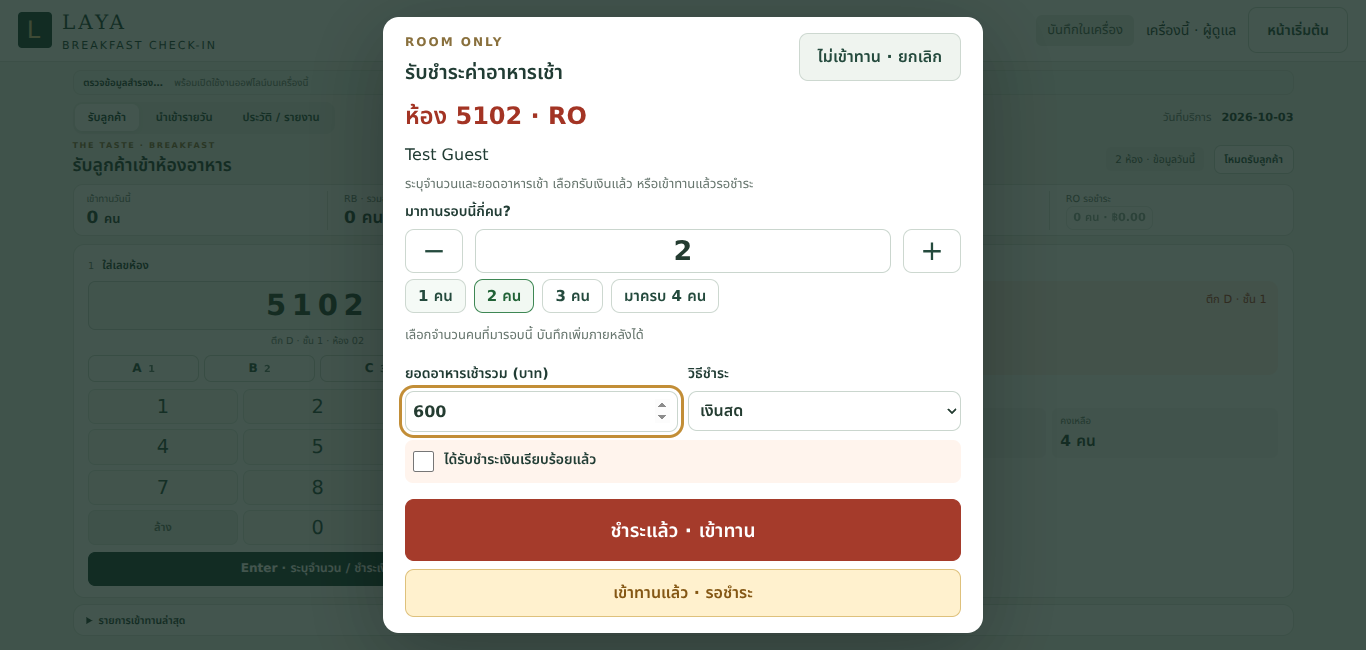
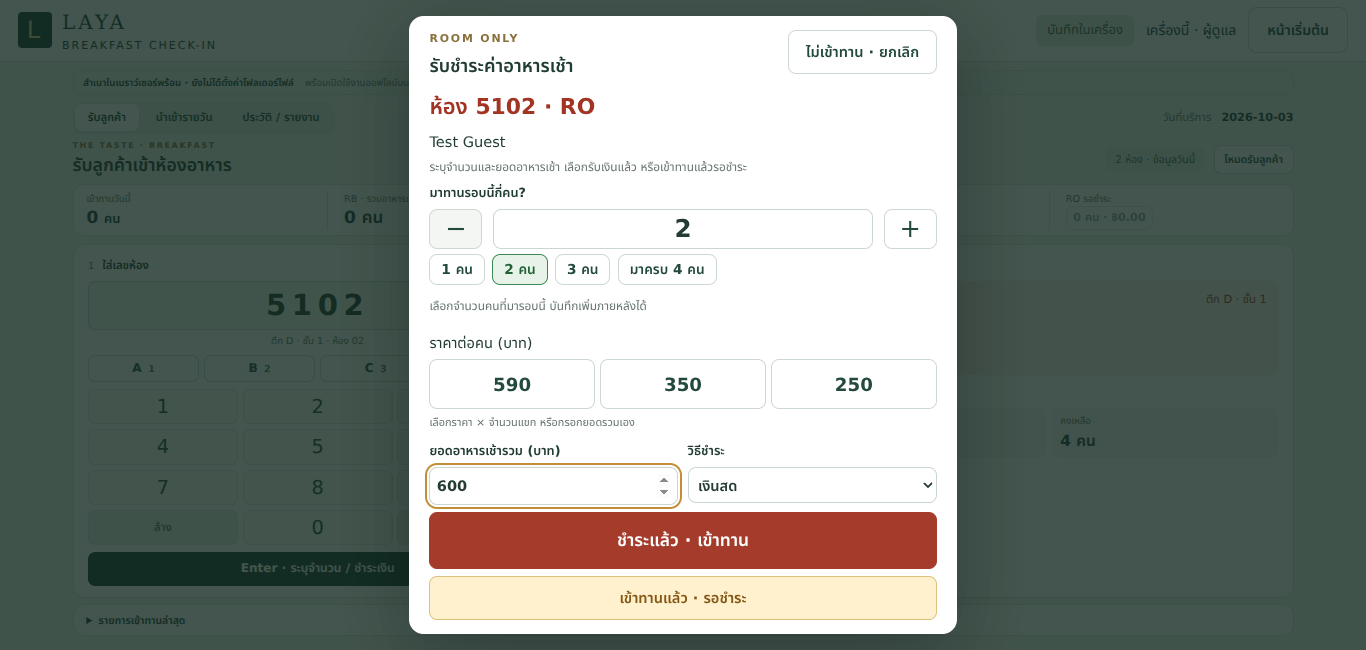
Add files via upload

diff --git a/app.js b/app.js
@@ -33,11 +33,12 @@ function findRoom(){
   const count=currentState.counts[room]?.count||0,remaining=Math.max(0,r.pax-count);
   $('#guest').innerHTML='<div class="guest-state '+(r.pkg==='RO'?'payment':'included')+'"><div class="guest-state-top"><span class="state-label">'+(r.pkg==='RO'?'RO · ต้องชำระเงิน':'RB · รวมอาหารเช้า')+'</span><span>ตึก '+buildings[room[0]]+' · ชั้น '+room[1]+'</span></div><div class="guest-room">'+room+'</div><p>'+(r.pkg==='RO'?'เลือกชำระแล้ว หรือเข้าทานแล้วรอชำระ':'ทานอาหารเช้าได้โดยไม่ต้องชำระเพิ่ม')+'</p></div><div class="names">'+r.names.map(esc).join('<br>')+'</div><div class="occupancy"><div><small>ผู้พักทั้งหมด</small><strong>'+r.pax+' คน</strong></div><div><small>เข้าทานแล้ว</small><strong><span id="live-count">'+count+'</span> คน</strong></div><div><small>คงเหลือ</small><strong><span id="live-remaining">'+remaining+'</span> คน</strong></div></div>'+
   (remaining===0?'<div class="notice">บันทึกครบจำนวนผู้พักแล้ว กรุณาตรวจสอบกับ FO</div>':'<form id="entry-form"><label for="pax">มาทานรอบนี้กี่คน?</label><div class="pax-stepper"><button type="button" id="pax-minus" aria-label="ลดจำนวนคน">−</button><input id="pax" type="number" min="1" max="'+remaining+'" step="1" required value="1" aria-describedby="pax-hint"><button type="button" id="pax-plus" aria-label="เพิ่มจำนวนคน">+</button></div><div class="pax-quick">'+Array.from({length:Math.min(3,remaining)},(_,i)=>'<button type="button" data-pax="'+(i+1)+'" aria-pressed="'+(i===0)+'">'+(i+1)+' คน</button>').join('')+(remaining>3?'<button type="button" data-pax="'+remaining+'" aria-pressed="false">มาครบ '+remaining+' คน</button>':'')+'</div><small id="pax-hint" class="hint">เลือกจำนวนคนที่มารอบนี้ บันทึกเพิ่มภายหลังได้</small>'+
-  (r.pkg==='RO'?'<div class="payment-fields" hidden><div class="form-grid"><label>ยอดอาหารเช้ารวม (บาท)<input id="amount" type="number" inputmode="decimal" min="0.01" max="1000000" step="0.01" placeholder="0.00"></label><label>วิธีชำระ<select id="method"><option value="cash">เงินสด</option><option value="card">บัตรเครดิต</option><option value="transfer">โอนเงิน</option></select></label></div></div>':'')+
+  (r.pkg==='RO'?'<div class="payment-fields" hidden><div class="price-presets" role="group" aria-label="ราคาอาหารเช้าต่อคน"><span>ราคาต่อคน (บาท)</span>'+[590,350,250].map(price=>'<button type="button" data-price="'+price+'" aria-pressed="false">'+price+'</button>').join('')+'<small>เลือกราคา × จำนวนแขก หรือกรอกยอดรวมเอง</small></div><div class="form-grid"><label>ยอดอาหารเช้ารวม (บาท)<input id="amount" type="number" inputmode="decimal" min="0.01" max="1000000" step="0.01" placeholder="0.00"></label><label>วิธีชำระ<select id="method"><option value="cash">เงินสด</option><option value="card">บัตรเครดิต</option><option value="transfer">โอนเงิน</option></select></label></div></div>':'')+
   '<button id="save-entry" type="'+(r.pkg==='RO'?'button':'submit')+'" class="primary full '+(r.pkg==='RO'?'save-paid':'save-rb')+'">'+(r.pkg==='RO'?'ระบุการชำระเงิน':'ยืนยันเข้าทาน')+'</button>'+(r.pkg==='RO'?'<button id="save-pending" type="button" hidden class="pending-button full">เข้าทานแล้ว · รอชำระ</button>':'')+'</form>');
   $('#entry-form')?.addEventListener('submit',saveEntry);$('#save-pending')?.addEventListener('click',e=>saveEntry(e,'pending'));if(r.pkg==='RO')$('#save-entry')?.addEventListener('click',()=>{if(!$('#payment-dialog').open)openPayment();});
   if($('#pax')){
-   const sync=()=>{const n=Number($('#pax').value);document.querySelectorAll('[data-pax]').forEach(b=>b.setAttribute('aria-pressed',String(Number(b.dataset.pax)===n)));$('#pax-minus').disabled=busy||n<=1;$('#pax-plus').disabled=busy||n>=remaining;};
+   let chosenPrice=null;const syncPrice=()=>{document.querySelectorAll('[data-price]').forEach(b=>b.setAttribute('aria-pressed',String(Number(b.dataset.price)===chosenPrice)));if(chosenPrice!==null){const n=Number($('#pax').value);$('#amount').value=Number.isInteger(n)&&n>0?String(chosenPrice*n):'';}};document.querySelectorAll('[data-price]').forEach(b=>b.addEventListener('click',()=>{chosenPrice=Number(b.dataset.price);syncPrice();}));$('#amount')?.addEventListener('input',()=>{chosenPrice=null;syncPrice();});
+   const sync=()=>{syncPrice();const n=Number($('#pax').value);document.querySelectorAll('[data-pax]').forEach(b=>b.setAttribute('aria-pressed',String(Number(b.dataset.pax)===n)));$('#pax-minus').disabled=busy||n<=1;$('#pax-plus').disabled=busy||n>=remaining;};
    $('#pax-minus').addEventListener('click',()=>{$('#pax').value=Math.max(1,(Number($('#pax').value)||1)-1);sync();});
    $('#pax-plus').addEventListener('click',()=>{$('#pax').value=Math.min(remaining,(Number($('#pax').value)||1)+1);sync();});
    document.querySelectorAll('[data-pax]').forEach(b=>b.addEventListener('click',()=>{$('#pax').value=b.dataset.pax;sync();}));$('#pax').addEventListener('input',sync);$('#pax').addEventListener('keydown',e=>{if(e.key==='Enter'&&e.repeat)e.preventDefault();});sync();

diff --git a/style.css b/style.css
@@ -88,3 +88,5 @@
 .pending-button,.pending-list{background:#fff1ce;color:#845714;border:1px solid #dec17c}.pending-list{padding:16px;border-radius:12px;margin:12px 0}.pending-entry{display:flex;align-items:center;justify-content:space-between;gap:12px;padding:10px 0;border-top:1px solid #dec17c}.pending-entry small{display:block;font-size:12px}.pending-text{color:#945e09}#settlement-dialog{width:min(480px,calc(100% - 32px));border:0;border-radius:14px;padding:22px;color:#213c34}#settlement-dialog::backdrop{background:#10271ec9}#pending-shortcut{font-size:14px;min-height:28px;padding:2px 8px}.pending-button{min-height:40px!important;margin-top:8px!important}@media screen and (min-width:761px){.reception-page .reception-summary{grid-template-columns:repeat(5,minmax(0,1fr))}}
 
 .pending-entry>div{min-width:0;overflow-wrap:anywhere}.pending-entry button{flex-shrink:0}
+
+.price-presets{display:grid;grid-template-columns:repeat(3,minmax(0,1fr));gap:6px;margin-bottom:10px}.price-presets>span,.price-presets>small{grid-column:1/-1}.price-presets>small{font-size:12px;color:var(--muted)}.price-presets button{min-height:42px;font-size:20px;font-weight:600;touch-action:manipulation}.price-presets button[aria-pressed=true]{background:#163f36;color:white;border-color:#163f36}

diff --git a/sw.js b/sw.js
@@ -1,5 +1,5 @@
 const PREFIX='laya-breakfast-local-'+encodeURIComponent(self.registration.scope)+'-';
-const CACHE=PREFIX+'v2.9.1';
+const CACHE=PREFIX+'v2.9.2';
 const ASSETS=["./", "./index.html", "./app.js", "./auto-backup.js", "./style.css", "./domain.js", "./local-store.js", "./phase-reports.js", "./store.js", "./pdf-import.js", "./pdf-workflow.js", "./icon.svg", "./manifest.webmanifest", "./sample-guests.csv", "./fonts/noto-sans-thai-thai-400-normal.woff2", "./fonts/noto-sans-thai-thai-600-normal.woff2", "./vendor/xlsx.full.min.js", "./vendor/pdfjs/pdf.min.mjs", "./vendor/pdfjs/pdf.worker.min.mjs"];
 self.addEventListener('install',e=>e.waitUntil((async()=>{const cache=await caches.open(CACHE);await cache.addAll(ASSETS.map(url=>new Request(url,{cache:'reload'})));await self.skipWaiting();})()));
 self.addEventListener('activate',e=>e.waitUntil((async()=>{for(const key of await caches.keys())if(key.startsWith(PREFIX)&&key!==CACHE)await caches.delete(key);await self.clients.claim();})()));

diff --git a/README-TH.md b/README-TH.md
@@ -1,4 +1,4 @@
-# LAYA Breakfast Local v2.9.1 — โน้ตบุ๊กเครื่องเดียว
+# LAYA Breakfast Local v2.9.2 — โน้ตบุ๊กเครื่องเดียว
 
 ไม่ใช้ Firebase ไม่ต้องมีบัญชีหรือชำระค่าฐานข้อมูล ข้อมูลเก็บใน IndexedDB ของเบราว์เซอร์บนเครื่องนี้
 รองรับการนำเข้า PDF / Excel / CSV ตรวจ RO/RB ห้องนอกตึกถูกตัดออก รับเงิน RO / รอชำระ และรายงานย้อนหลังเหมือนรุ่นเดิม
@@ -132,3 +132,6 @@ PDF สแกนเป็นภาพยังไม่รองรับ แล
 
 
 v2.9.1 เอาช่องติ๊กได้รับชำระเงินเรียบร้อยแล้วออก ปุ่มชำระแล้ว · เข้าทานยืนยันรับเงินโดยตรง ยอดเงินและจำนวนยังต้องถูกต้องตามเงื่อนไขเดิม
+
+
+v2.9.2 ปุ่มราคา 590 / 350 / 250 บาทต่อคนในหน้ารับชำระ RO คูณจำนวนแขกอัตโนมัติ เปลี่ยนจำนวนแล้วคำนวณใหม่ กรอกยอดรวมเองได้สำหรับราคาผสม เมื่อแก้ยอดเองจะเลิกคำนวณอัตโนมัติจนเลือกปุ่มราคาอีกครั้ง กดราคาไม่บันทึกข้อมูล ต้องกดชำระแล้วเข้าทานหรือรอชำระ

diff --git a/TEST-REPORT.md b/TEST-REPORT.md
@@ -1,3 +1,7 @@
+# v2.9.2
+
+ผ่าน Chromium ออฟไลน์: ปุ่มราคา 590/350/250 คูณแขก 2 คนได้ถูกต้อง เพิ่มจำนวนแล้วคำนวณใหม่ แก้ยอดเองแล้วเปลี่ยนจำนวนไม่ทับยอดที่กรอก ปุ่มราคาไม่เพิ่มจำนวนเข้าทานจนกดบันทึก บันทึกชำระด้วยราคาที่เลือก รับยอดค้างไม่เพิ่มคนซ้ำ ส่งออกรายงานแยกรับเงินจริง/ค้างชำระ หน้าจอมือถือไม่ล้นด้านข้าง
+
 # v2.9.1
 
 ผ่าน 23 unit tests และ Chromium ออฟไลน์: ไม่มีช่องติ๊กรับชำระในหน้ารับลูกค้า ปุ่มชำระแล้วเข้าทานบันทึกแขกและเงินโดยตรง รอชำระยังแยกยอด รายการยกเลิกไม่เพิ่มคน รับยอดค้างไม่เพิ่มคนซ้ำ

diff --git a/UPDATE-TH.md b/UPDATE-TH.md
@@ -1,3 +1,8 @@
+# Local v2.9.2 — ปุ่มราคาต่อคน
+
+เพิ่ม 590 / 350 / 250 บาทต่อคน คูณจำนวนแขกให้อัตโนมัติ ปรับจำนวนแล้วคำนวณใหม่ แก้ยอดรวมเองได้
+ใช้กับทั้งชำระแล้วและรอชำระ อัปเดตเว็บ URL เดิม ไม่ต้องนำเข้า PDF ใหม่
+
 # Local v2.9.1 — ลดขั้นตอนรับชำระ
 
 เอาช่องติ๊กได้รับชำระเงินเรียบร้อยแล้วออก กดชำระแล้ว · เข้าทานเพื่อยืนยันรับเงินและบันทึกโดยตรง
